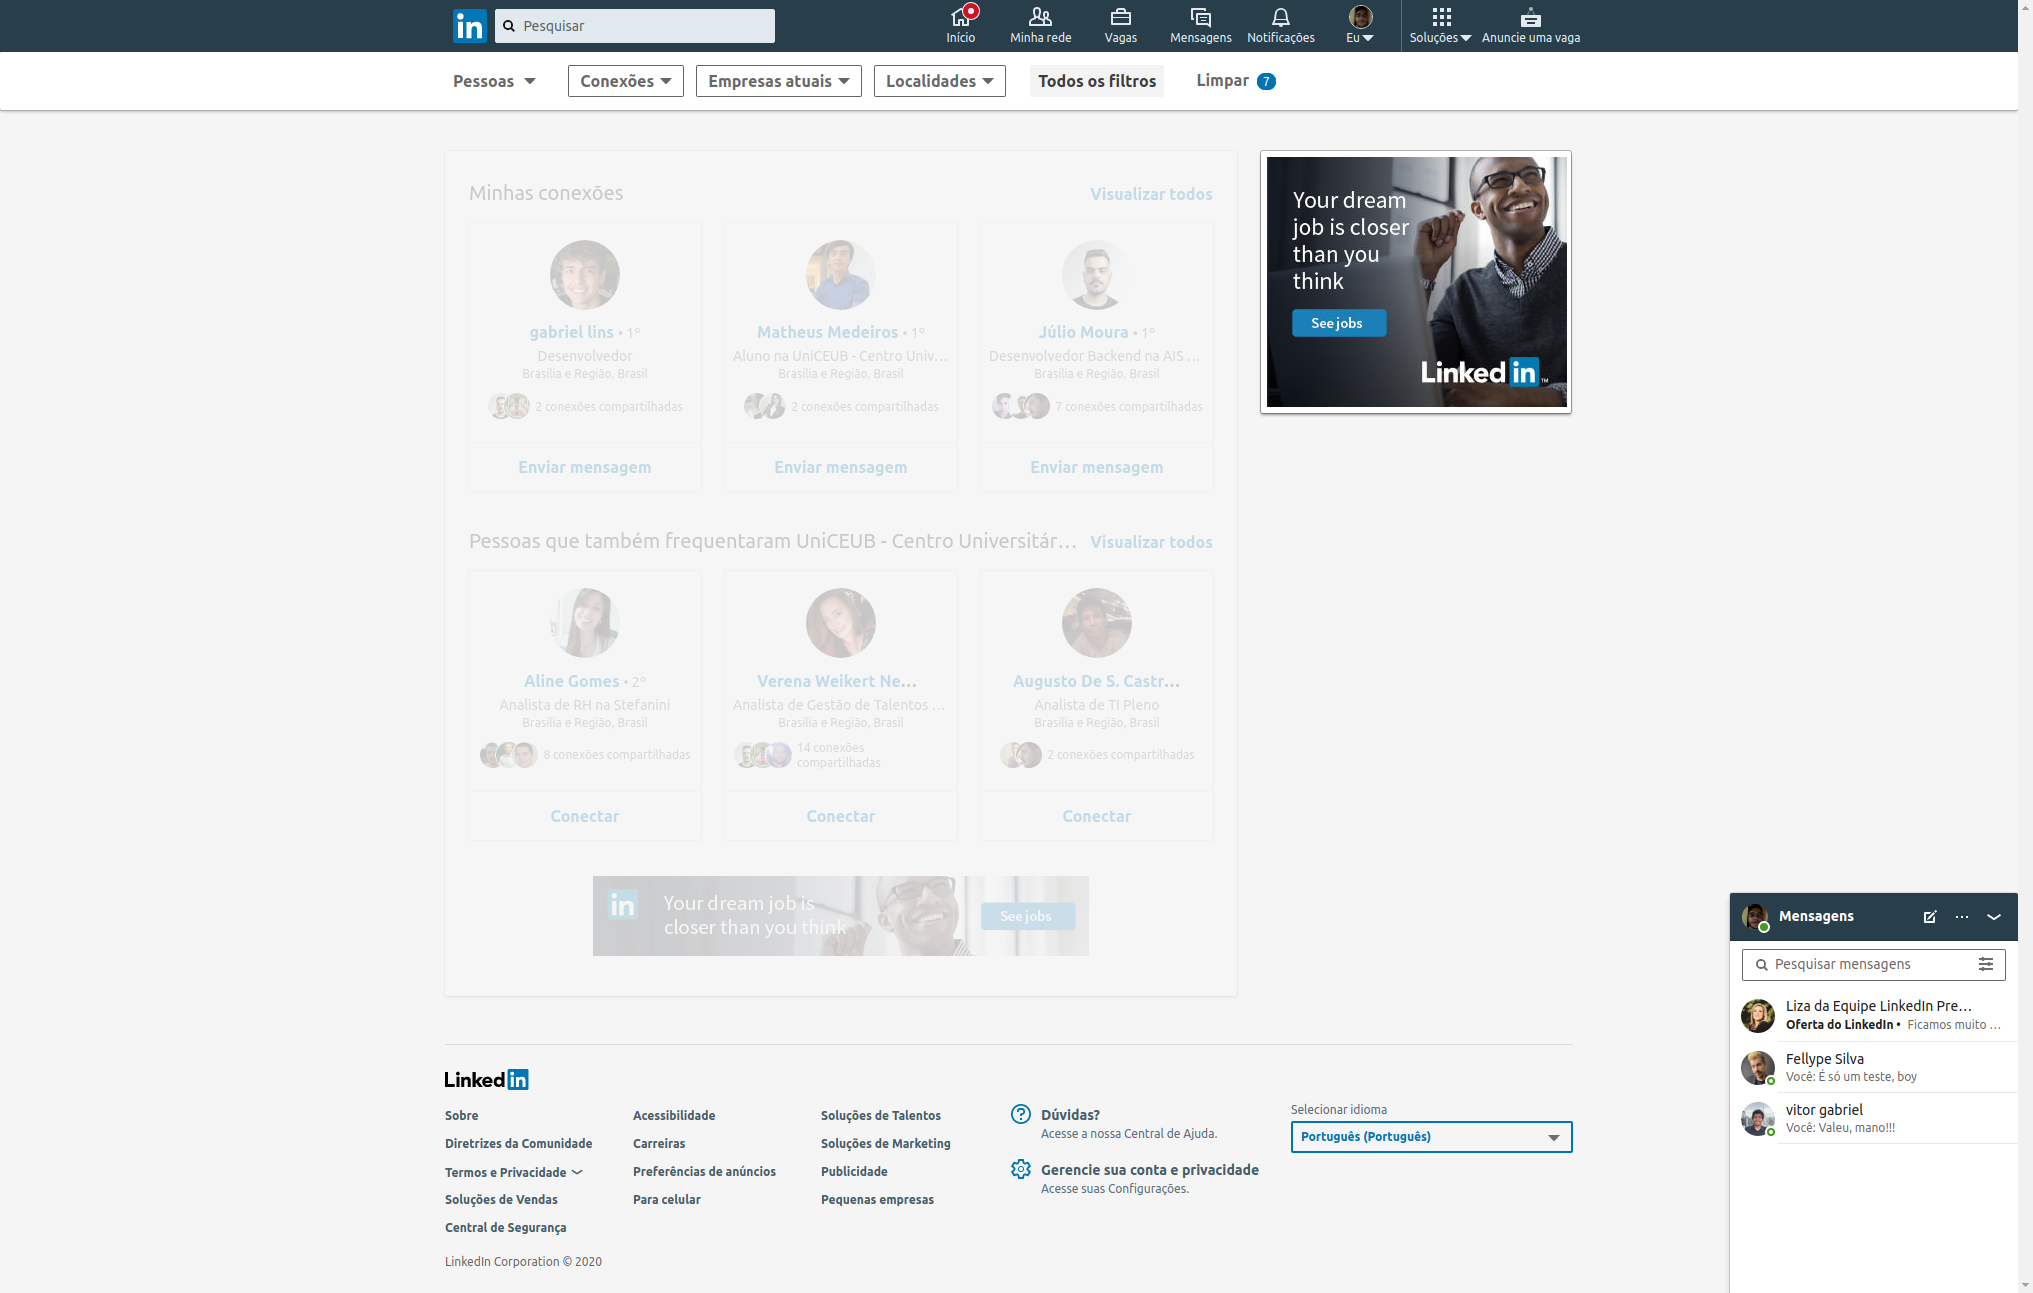
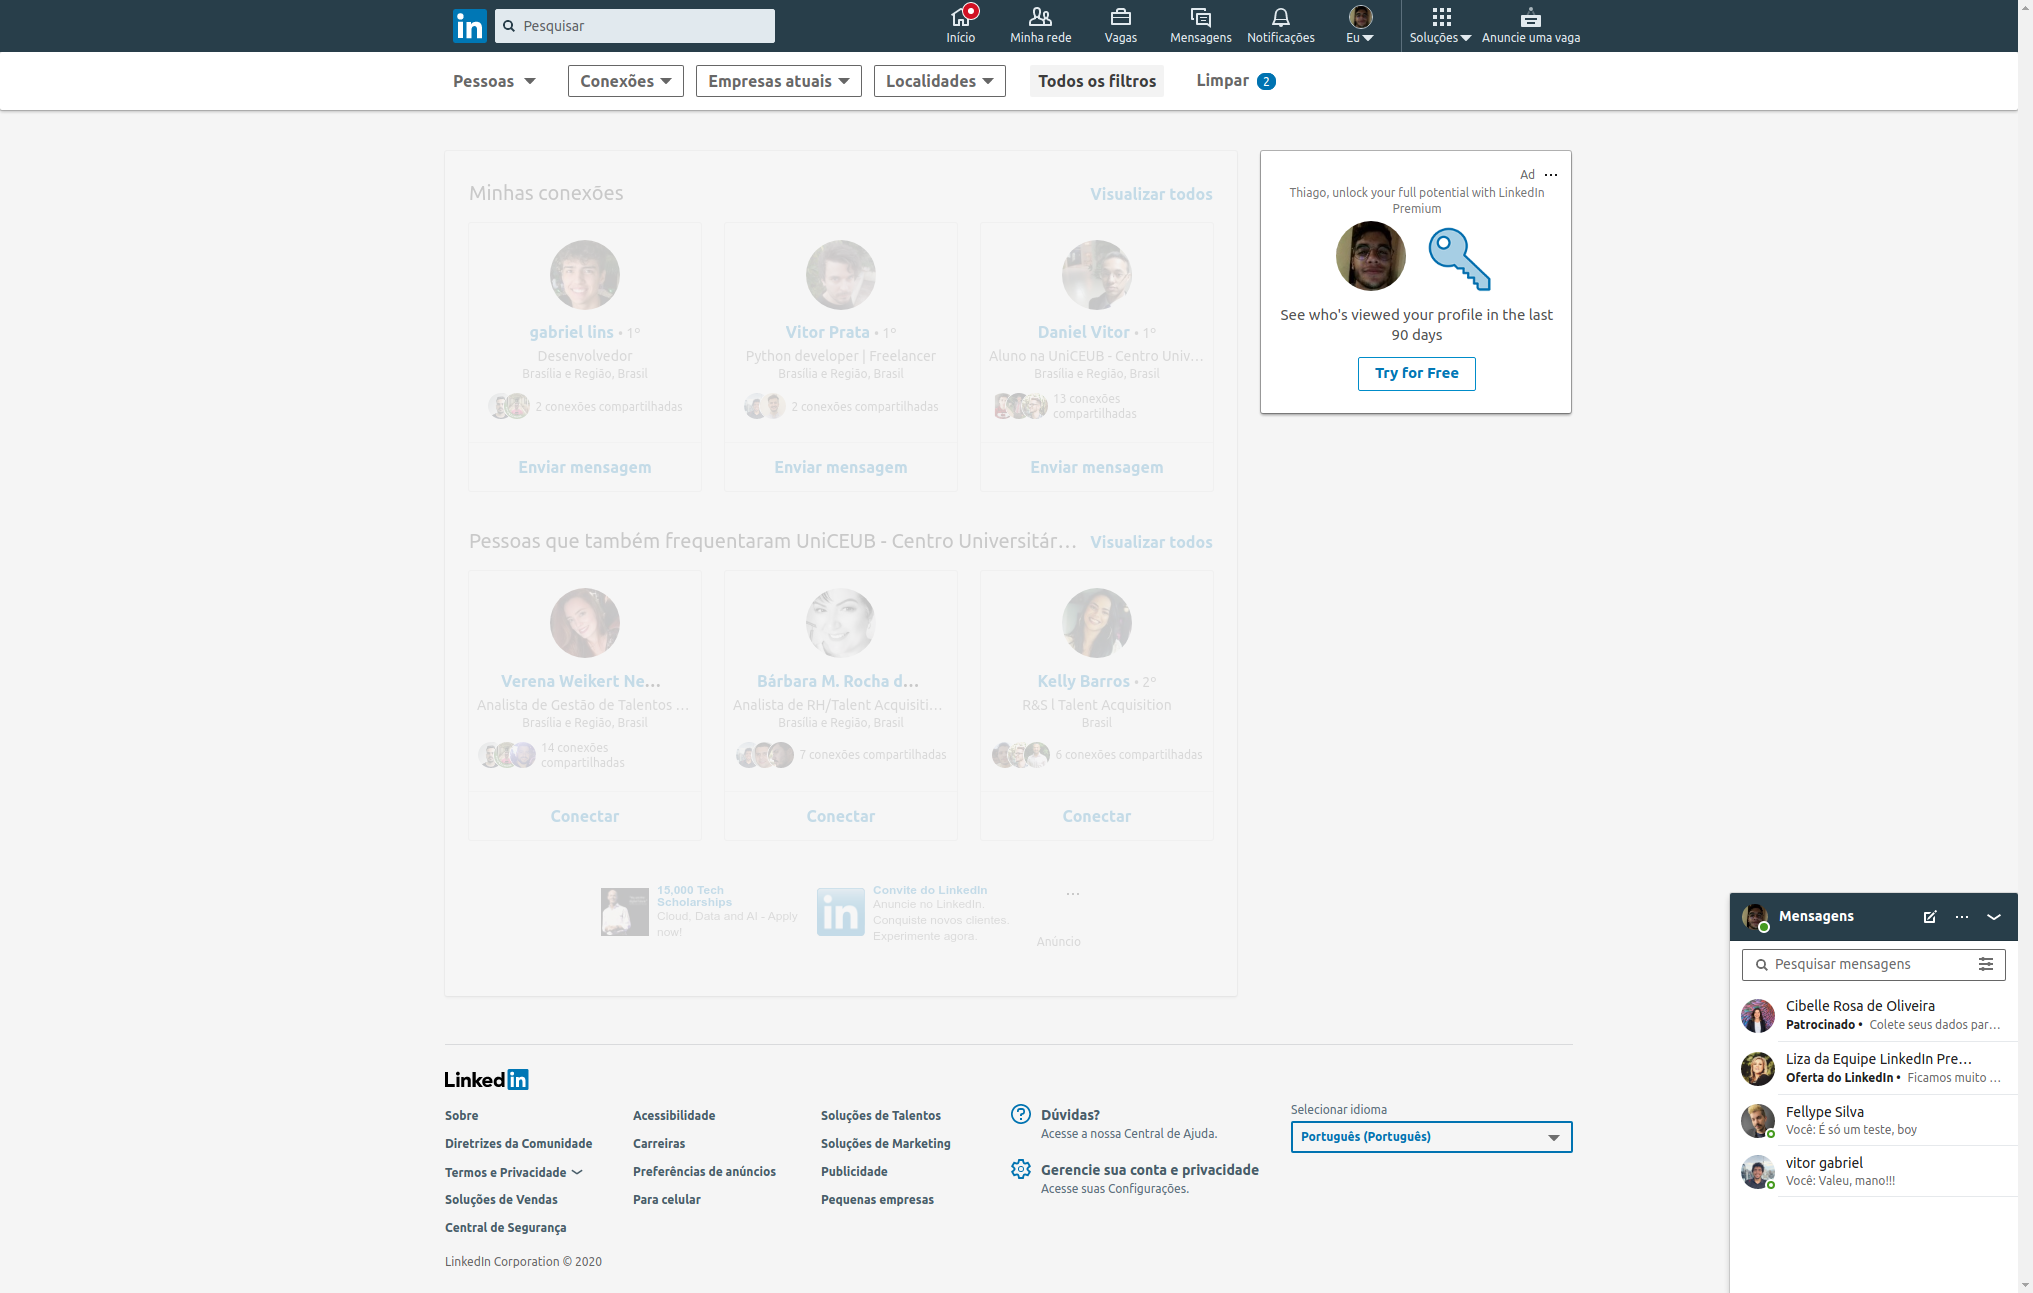
:construction: Trying to implemment logic to create connections

diff --git a/app/services/BotMessagesService.js b/app/services/BotMessagesService.js
@@ -7,7 +7,7 @@ module.exports = class BotMessagesService {
     const browser = await puppeteer.launch({
       headless: false,
       args: ['--disable-features=site-per-process'],
-      defaultViewport: { width: 2048, height: 1080 },
+      defaultViewport: { width: 2048, height: 1080, isLandscape: true,  },
     })
     const page = await browser.newPage()
 
@@ -39,6 +39,54 @@ module.exports = class BotMessagesService {
 
     await (await this._nthEmberElement({ n: 5, page })).click()
     await this._screenshot({ page, fileName: 'apply' })
+
+    await page.waitFor(2000)
+    await page.mouse.click(1165, 350, {button: "left",})
+    await page.waitFor(2000)
+    await page.mouse.click(1165, 470, {button: "left"})
+    await page.waitFor(2000)
+    await page.mouse.click(1165, 600, {button: "left"})
+    await page.waitFor(2000)
+    await page.mouse.click(1165, 715, {button: "left"})
+    await page.waitFor(2000)
+    await page.mouse.click(1165, 840, {button: "left"})
+    await page.waitFor(2000)
+    await page.mouse.click(1165, 960, {button: "left"})
+    await page.waitFor(2000)
+    await page.mouse.click(1165, 1090, {button: "left"})
+    await page.waitFor(2000)
+    await page.mouse.click(1165, 1210, {button: "left"})
+    await page.waitFor(2000)
+    await page.mouse.click(1165, 1330, {button: "left"})
+    await page.waitFor(2000)
+    await page.mouse.click(1165, 1460, {button: "left"})
+    await this._screenshot({ page, fileName: 'Test' })
+
+    await page.waitFor(5000)
+
+    // const escapeXpathString = str => {
+    //   const splitedQuotes = str.replace(/'/g, `', "'", '`)
+    //   return `concat('${splitedQuotes}', '')`
+    // }
+
+    // const clickByText = async (page, text) => {
+    //   const escapedText = escapeXpathString(text)
+    //   const linkHandlers = await page.$x(
+    //     `//button[contains(text(), ${escapedText})]`
+    //   )
+
+    //   if (linkHandlers.length > 0) {
+    //     await linkHandlers[0].click()
+    //   } else {
+    //     throw new Error(`Link not found: ${text}`)
+    //   }
+    // }
+    // button[(data - control - name = 'people_profile_card_connect_button')]
+    // await clickByText(page, 'Conectar')
+    // await page.waitForNavigation({ waitUntil: 'load' })
+    // await (await page.$("[data-control-name='srp_profile_actions']")).click({
+    //   button: 'left',
+    // })
 
     await browser.close()
   }
